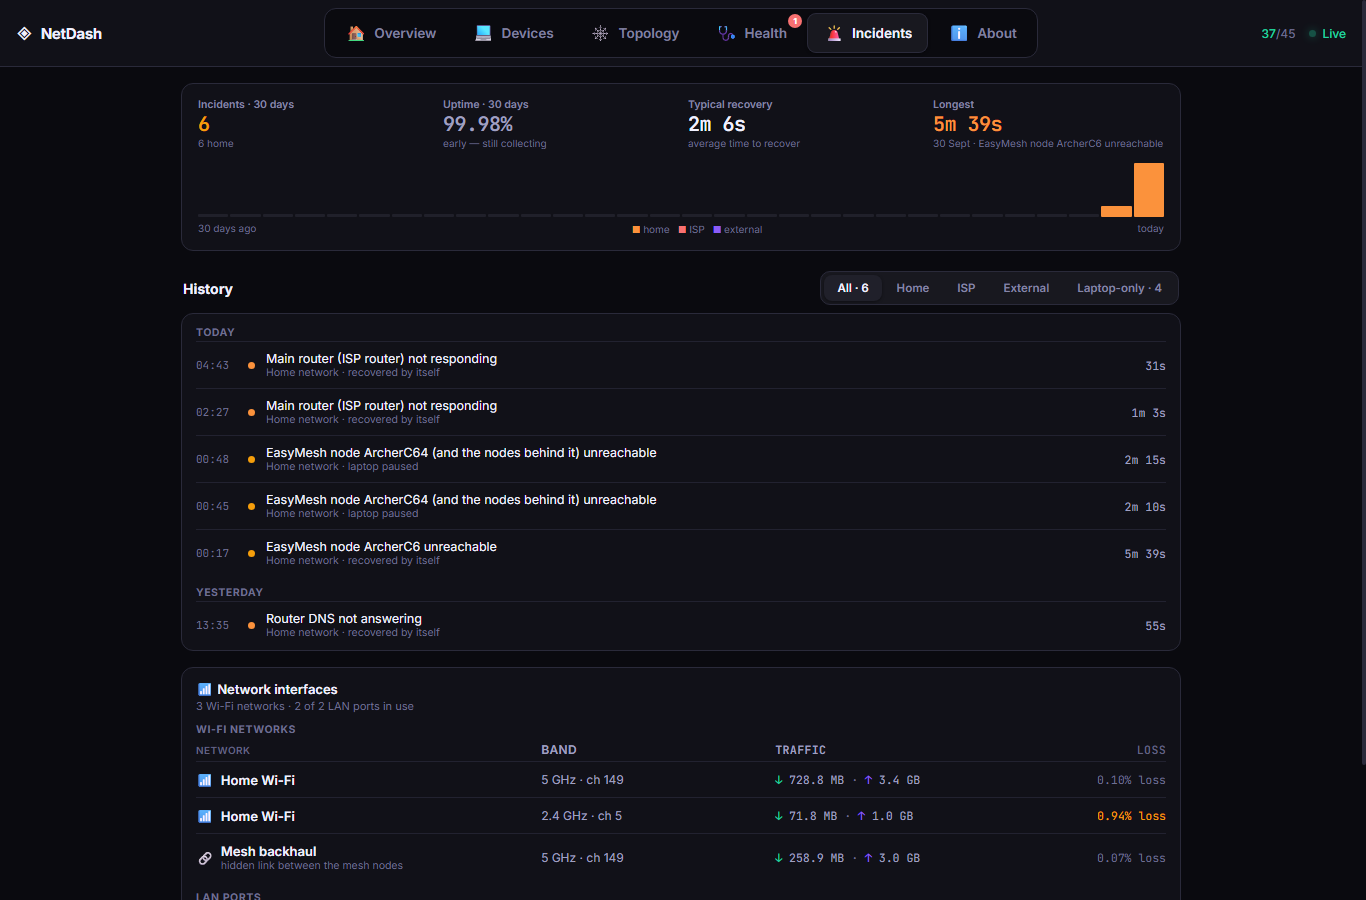
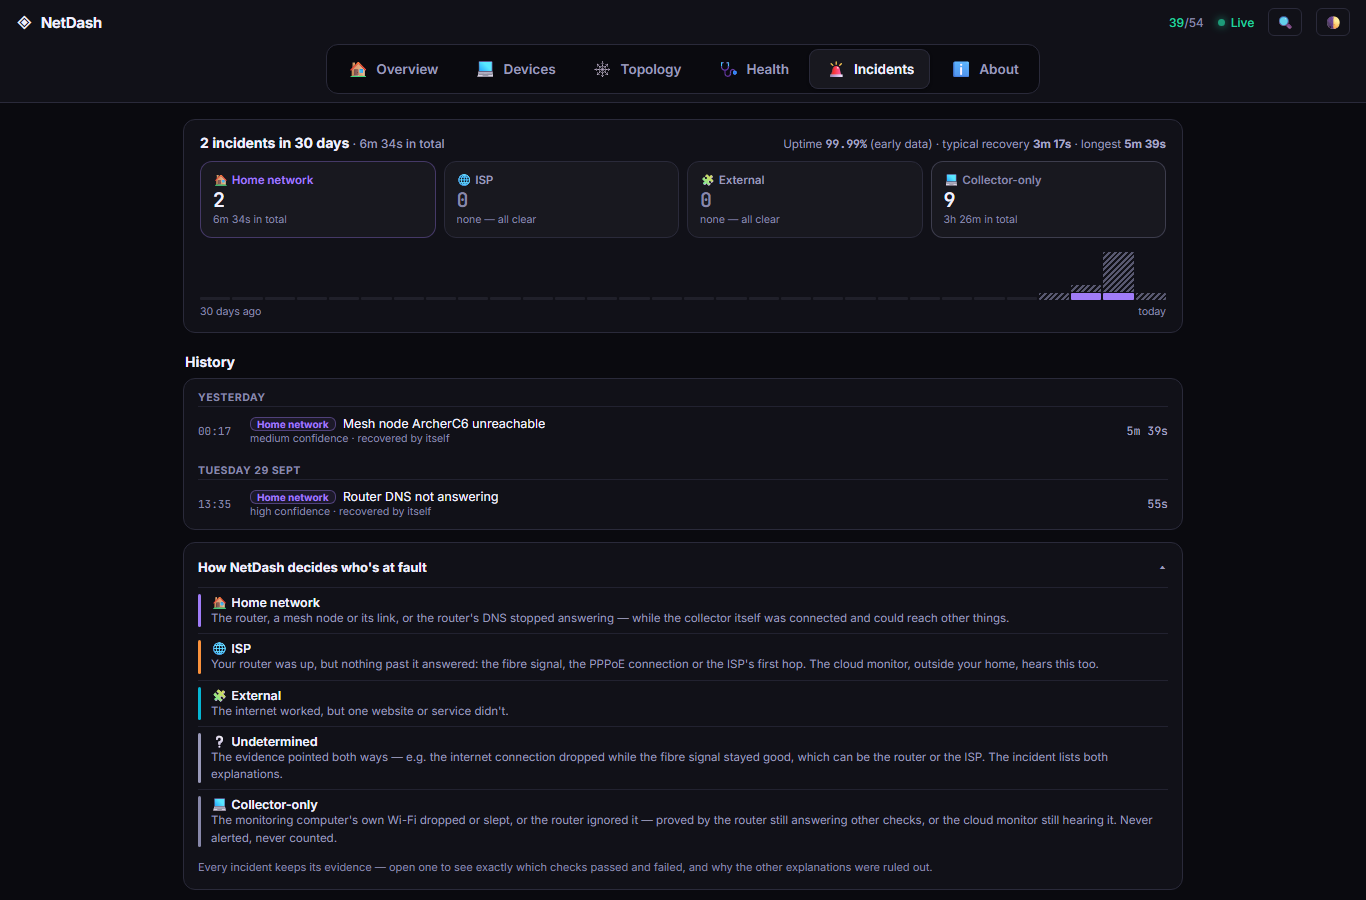
NetDash v1.0.0: any installation, Settings, honest-under-outage pages, stable layout
README: v1.0.0 and CI badges, current test counts (185 Python + 7 JS
suites, Postgres access-rule tests), "any network" and "honest when
things break" features, layout-stability and build-guard highlights, the
full set of live browser checks, and the current codebase layout
(routers/, supabase/, install/, docs/). New Incidents screenshot (visitor
view, access points by model) showing the who's-at-fault breakdown.

diff --git a/README.md b/README.md
@@ -5,6 +5,7 @@
 **A home-network monitor that tells you *what* broke, *where* it broke (your home or your ISP), and *what to do* — before you notice.**
 
 ![In production](https://img.shields.io/badge/status-in_production_24%2F7-22d3a0?style=for-the-badge&logo=netlify&logoColor=white)
+![Version](https://img.shields.io/badge/release-v1.0.0-3b82f6?style=for-the-badge)
 [![Code highlights](https://img.shields.io/badge/read-code_highlights-8b5cf6?style=for-the-badge)](docs/HIGHLIGHTS.md)
 
 ![React](https://img.shields.io/badge/React_18-20232a?logo=react&logoColor=61dafb)
@@ -12,7 +13,8 @@
 ![Supabase](https://img.shields.io/badge/Supabase-Postgres_+_RLS-3ecf8e?logo=supabase&logoColor=white)
 ![Python](https://img.shields.io/badge/Python-collector_+_sentinel-3776ab?logo=python&logoColor=white)
 ![Telegram](https://img.shields.io/badge/Telegram-bot_alerts-26a5e4?logo=telegram&logoColor=white)
-![Tests](https://img.shields.io/badge/tests-109_Python_+_7_JS_suites-8b5cf6)
+![Tests](https://img.shields.io/badge/tests-185_Python_+_7_JS_suites-8b5cf6)
+![CI](https://img.shields.io/badge/CI-Linux_·_macOS_·_Windows-22d3a0)
 ![PWA](https://img.shields.io/badge/PWA-phone_·_tablet_·_TV-f59e0b)
 
 <img src="docs/screenshots/overview.png" alt="NetDash overview: status, uptime, latency, fibre and per-access-point heartbeat bars" width="880">
@@ -23,7 +25,8 @@
 
 ## The problem
 
-A home with fibre internet, an ISP router and a mesh of Wi-Fi access points fails in confusing ways:
+A network with fibre internet, an ISP router and a mesh of Wi-Fi access points — in a home, a school or an office —
+fails in confusing ways:
 *"Wi-Fi connected, no internet"*, one room's access point dropping, the router needing a restart, or the ISP
 itself being down. Consumer apps show **that** something is wrong — not **which layer** failed or **who** should fix it.
 
@@ -41,7 +44,9 @@ probes into a plain-language verdict with evidence, confidence and the exact nex
 | 🚨 | **Incident timeline** | Start/end/duration, affected nodes and devices, black-box samples, recurrence patterns, "what fixed it" — one parent incident per outage, never an alert storm. |
 | 🤖 | **Telegram bot** | Alerts (open / escalate / resolve, mute with catch-up, false-alarm corrections) and interactive screens: status, mesh, devices, who's home, today's report. |
 | 👪 | **People & presence** | Assign devices to people; "who's home" from the devices they carry, with nap smoothing. |
-| 🔐 | **Two audiences, one app** | Owner sees everything; public visitors get a redacted view (no IPs, MACs, SSIDs, firmware, presence) served by a separate API — and nothing tells them it's reduced. |
+| 🔐 | **Two audiences, one app** | Owner and admins see everything; public visitors get a redacted view (no IPs, MACs, SSIDs, firmware, presence) served by a separate API — and nothing tells them it's reduced. |
+| 🧭 | **Any network, set up in the app** | v1.0 runs on any installation: a generic router adapter (any router) plus vendor adapters, device identification from the IEEE registry and what devices announce (no hard-coded lists), and a **Settings** page for the network's name, ISP, router, time zone, access-point names, report times, admins and visitors. A new install shows "waiting for the first report" screens, not endless loading. |
+| 🧱 | **Honest when things break** | If the database can't be reached, every page says *"Can't load the latest data right now"* and the header shows *Reconnecting…* — never a stale "all clear". |
 
 ## 📸 Screens
 
@@ -51,7 +56,7 @@ heartbeat-bar history uses sample data so the shots aren't dominated by the moni
 <table>
 <tr>
 <td width="50%"><img src="docs/screenshots/topology.png" alt="Topology: mesh tree with per-node devices"><br><sub><b>Topology</b> — mesh tree, per-access-point devices and signal</sub></td>
-<td width="50%"><img src="docs/screenshots/incidents.png" alt="Incidents: 30-day summary and history"><br><sub><b>Incidents</b> — 30-day uptime, recovery times, history & patterns</sub></td>
+<td width="50%"><img src="docs/screenshots/incidents.png" alt="Incidents: who was at fault over 30 days, and the history"><br><sub><b>Incidents</b> — who was at fault (home · ISP · external · monitor only), uptime, recovery times, history</sub></td>
 </tr>
 <tr>
 <td>
@@ -146,23 +151,29 @@ flowchart TD
 - **Privacy by construction** — visitors are served through a separate endpoint that redacts IPs, MACs (HMAC stand-ins), SSIDs and firmware, including inside free text; an automated audit checks every page for leaks.
 - **Security** — Supabase RLS denies anonymous access to every table; every API endpoint verifies the owner's session or the collector key; strict CSP, HSTS, no framing; public endpoints are rate-limited.
 - **Operability** — health endpoint for uptime monitors, job check-ins, web-app crash reports from any visitor, nightly backups of everything entered by hand, version stamp in the UI.
+- **Steady, fast pages** — nothing jumps while data loads (layout shift 0.04, well under the 0.1 "good" mark): sections hold the space they took last time until all their inputs are in. Settings is fetched in the background, so it opens at once.
+- **Guarded build** — the test gate fails on stray control characters in source (a shell-mangled `\b` once silently broke a regex), and CI runs every suite on Linux, macOS and Windows plus the database rules on Postgres.
 
 ## ✅ Testing
 
 ```bash
-npm test          # 109 Python tests (diagnosis, incidents, collector buffering, sampling) + 7 JS suites
-npm run deploy    # runs the full test gate, builds, deploys — refuses if anything fails
+npm test             # 185 Python tests (diagnosis, incidents, collector, sentinel) + 7 JS suites
+                     # (identification, names, presence, reconcile, redaction, bot, web)
+bash tests/db/run.sh # schema + access rules on a real Postgres (Docker)
+npm run deploy       # runs the full test gate, builds, deploys — refuses if anything fails
 ```
 
 Plus headless-Chrome checks against the live site: smoke tests at phone / tablet / desktop / TV widths for owner and
-visitor, a console-error sweep, a privacy audit, tap/click flows, badges, login, performance and offline mode.
+visitor, a click-every-control error sweep, a privacy audit (admin vs visitor, on screen and in every response),
+light/dark themes with WCAG contrast of every text, "go there" navigation, People and Dismiss/Restore flows (which
+put the real data back exactly), and performance (load, tab switches, layout shift).
 Failure scenarios (router down, ISP outage, mesh node loss, DHCP failure, …) are replayed through the real
 diagnosis engine with `simulate_run.py`.
 
 ## 🔒 About this repository
 
-NetDash runs in production for a real household, so its full source stays private (it's tied to that home's
-network). This showcase has the README, architecture, screenshots with personal details replaced, and
+NetDash runs in production 24/7. Since v1.0 it can be installed on any network (homes, schools, offices); the full
+source stays private. This showcase has the README, architecture, screenshots with personal details replaced, and
 **[real code excerpts](docs/HIGHLIGHTS.md)** from the hard parts. A walkthrough of the live system and the full code
 are available to prospective clients on request.
 
@@ -172,13 +183,16 @@ are available to prospective clients on request.
 ```
 public/index.html          the web app (React 18 JSX) → esbuild bundle
 netlify/functions/         API endpoints, scheduled jobs, Telegram bot, shared modules
+                           (_site: per-installation settings · _auth: owner + admins · _redact: visitor view)
 monitor.py diagnose.py     collector: probe loop, failure classifier
 incidents.py probes.py     incident lifecycle + black box, network probes
-scraper*.py                rate-limited router reads, snapshot upload
+routers/                   router adapters: generic (any router) + vendor-specific, behind one interface
 sentinel/                  VPS service (syslog heartbeat, outside-in ISP checks)
-tests/                     Python unittest + node test suites
+supabase/                  schema.sql for fresh installs + migrations for upgrades
+install/ Dockerfile        collector as a Windows task, a Linux / macOS service or a container
+tests/                     Python unittest + node suites + Postgres access-rule tests
 tools/                     headless-browser checks, bot preview
-db_*.sql                   schema + migrations
+docs/                      install, configuration, routers, Telegram, sentinel, operations, upgrading
 ```
 </details>
 
